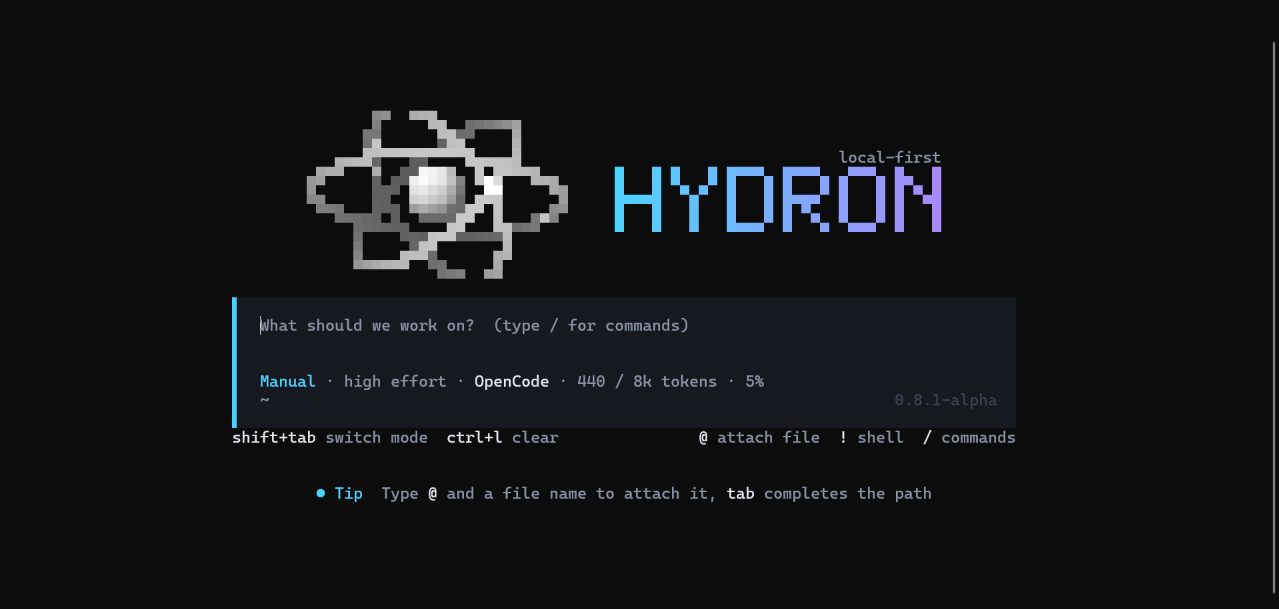
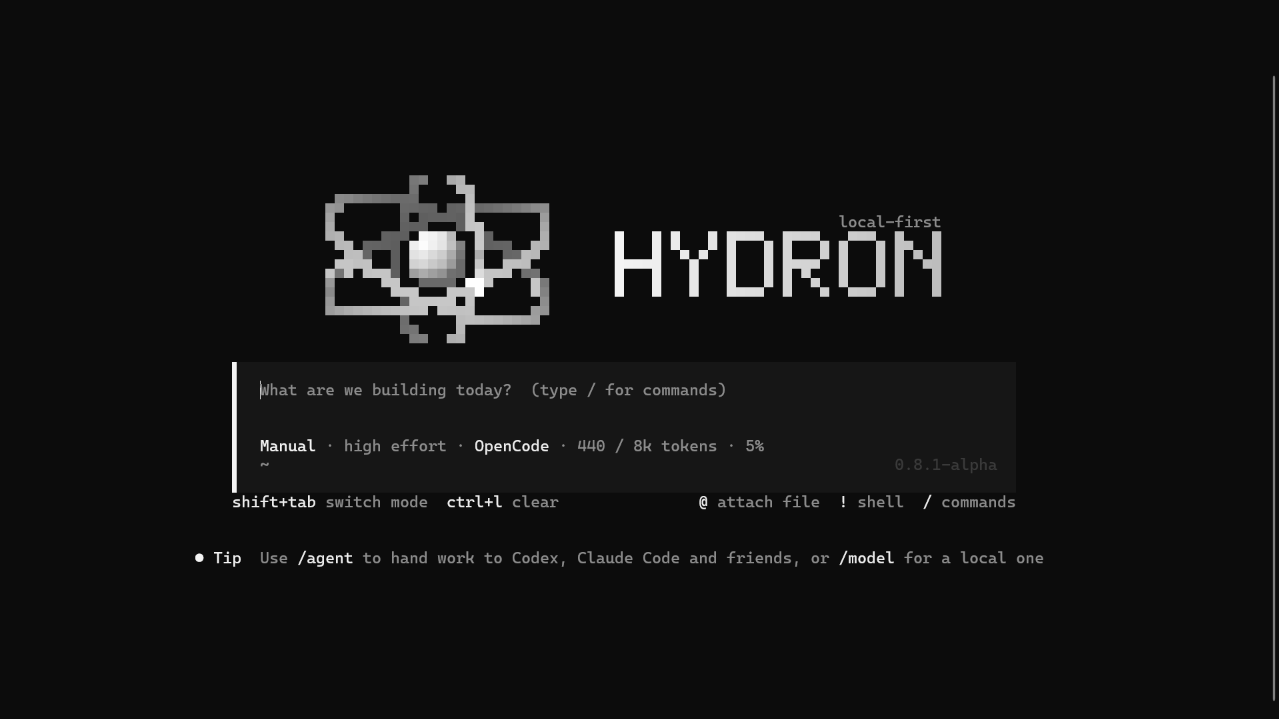
Use full-screen grey-theme screenshots for the app and CLI
- Replace the chat, Launch, Model Shop, Skills, IDE and CLI screenshots
  with full-window captures in the official grey Hydron theme; they are
  16:9 so they fill their frames without letterboxing
- Remove the PowerShell prompt line from the top of the CLI screenshot
- Mention /agent and /model in the CLI feature list, matching the new tip

Claude-Session: https://claude.ai/code/session_018qBfZMS91rYwB9GFuJ8y4J

diff --git a/features.html b/features.html
@@ -50,14 +50,14 @@
 
 <section class="showcase">
   <div class="container fade">
-    <div class="frame"><img id="product-shot" src="assets/hydron-chat.png?v=a25be29d" alt="Hydron chat interface" width="1279" height="673"></div>
+    <div class="frame"><img id="product-shot" src="assets/hydron-chat.png?v=d249b812" alt="Hydron chat interface" width="1279" height="719"></div>
     <div style="text-align:center">
       <div class="tabs" role="tablist" aria-label="Hydron product views">
-        <button class="tab active" role="tab" aria-selected="true" data-shot="assets/hydron-chat.png?v=a25be29d" data-alt="Hydron chat interface" data-caption="Chat with a local model or a connected coding agent.">Chat</button>
-        <button class="tab" role="tab" aria-selected="false" data-shot="assets/hydron-launch.png?v=1dde3c11" data-alt="Hydron agents and local models screen" data-caption="Launch the agents already on your PC and manage installed models.">Agents &amp; models</button>
-        <button class="tab" role="tab" aria-selected="false" data-shot="assets/hydron-models.png?v=afc7d46d" data-alt="Hydron Model Shop" data-caption="Install any GGUF model from Hugging Face, the Ollama library or a direct link.">Model Shop</button>
-        <button class="tab" role="tab" aria-selected="false" data-shot="assets/hydron-skills.png?v=3160bb89" data-alt="Hydron Skills library" data-caption="Install skills that change how the model writes, thinks and codes.">Skills</button>
-        <button class="tab" role="tab" aria-selected="false" data-shot="assets/hydron-ide.png?v=617fe2a2" data-alt="Hydron integrated development environment" data-caption="Edit your project with Ion in the Ask Hydron side chat.">IDE</button>
+        <button class="tab active" role="tab" aria-selected="true" data-shot="assets/hydron-chat.png?v=d249b812" data-alt="Hydron chat interface" data-caption="Chat with a local model or a connected coding agent.">Chat</button>
+        <button class="tab" role="tab" aria-selected="false" data-shot="assets/hydron-launch.png?v=7ea89d19" data-alt="Hydron agents and local models screen" data-caption="Launch the agents already on your PC and manage installed models.">Agents &amp; models</button>
+        <button class="tab" role="tab" aria-selected="false" data-shot="assets/hydron-models.png?v=3a570a95" data-alt="Hydron Model Shop" data-caption="Install any GGUF model from Hugging Face, the Ollama library or a direct link.">Model Shop</button>
+        <button class="tab" role="tab" aria-selected="false" data-shot="assets/hydron-skills.png?v=f6dad4f7" data-alt="Hydron Skills library" data-caption="Install skills that change how the model writes, thinks and codes.">Skills</button>
+        <button class="tab" role="tab" aria-selected="false" data-shot="assets/hydron-ide.png?v=c09e0cdf" data-alt="Hydron integrated development environment" data-caption="Edit your project with Ion in the Ask Hydron side chat.">IDE</button>
       </div>
       <p class="tab-caption" id="product-caption">Chat with a local model or a connected coding agent.</p>
     </div>
@@ -87,7 +87,7 @@
         <p>Search Hugging Face straight from Hydron, or open an Ollama name, an <code>hf:owner/repo</code> reference or a direct <code>.gguf</code> link. Not sure where to start? Hydron's verified picks cover everything from tiny to capable.</p>
         <ul class="checklist"><li>Install any GGUF model from Hugging Face, the Ollama library or a link</li><li>Downloads are checked against the SHA-256 the source publishes</li><li>Browse the most-downloaded GGUF models on Hugging Face</li><li>Verified picks such as Qwen, Llama, Gemma, Phi, Mistral and DeepSeek</li></ul>
       </div>
-      <div class="frame"><img src="assets/hydron-models.png?v=afc7d46d" alt="Hydron Model Shop with Hugging Face search and verified model picks" width="1279" height="670" loading="lazy"></div>
+      <div class="frame"><img src="assets/hydron-models.png?v=3a570a95" alt="Hydron Model Shop with Hugging Face search and verified model picks" width="1279" height="719" loading="lazy"></div>
     </div>
     <div class="feature-row flip fade" id="skills">
       <div class="feature-copy">
@@ -96,7 +96,7 @@
         <p>Skills change how the model writes, thinks and codes. There are 62 to choose from today, with more to come — from Concise and Plain English to Copy editor, Tutor and Reviewer.</p>
         <ul class="checklist"><li>Install only the skills you want</li><li>Switch each installed skill on or off</li><li>Applies to the main chat, the side chat and the CLI</li><li>Search and filter by category</li></ul>
       </div>
-      <div class="frame"><img src="assets/hydron-skills.png?v=3160bb89" alt="Hydron Skills library with installable writing and tone skills" width="1279" height="670" loading="lazy"></div>
+      <div class="frame"><img src="assets/hydron-skills.png?v=f6dad4f7" alt="Hydron Skills library with installable writing and tone skills" width="1279" height="719" loading="lazy"></div>
     </div>
     <div class="feature-row fade">
       <div class="feature-copy">
@@ -105,7 +105,7 @@
         <p>Open the folder you choose and work beside the AI tools using it. Hydron calls the language toolchains already installed on your PC.</p>
         <ul class="checklist"><li>Switch between the Hydron editor and VS Code</li><li>Ctrl+I opens Ask Hydron: Ion explains code, finds bugs and adds tests</li><li>You stay in control of every edit</li><li>Command palette, file explorer, and workspace search</li><li>Built-in terminal, problems, and output panels</li><li>Run with F5, plus Build and auto-save</li></ul>
       </div>
-      <div class="frame"><img src="assets/hydron-ide.png?v=617fe2a2" alt="Hydron integrated development environment" width="1279" height="669" loading="lazy"></div>
+      <div class="frame"><img src="assets/hydron-ide.png?v=c09e0cdf" alt="Hydron integrated development environment" width="1279" height="719" loading="lazy"></div>
     </div>
     <div class="feature-row flip fade">
       <div class="feature-copy">
@@ -114,16 +114,16 @@
         <p>Hydron detects supported coding agents installed on your PC, including Codex, Claude Code, Hermes, OpenClaw, OpenCode, and Copilot CLI.</p>
         <ul class="checklist"><li>Use your own subscriptions or API access</li><li>Each provider keeps its own terms and privacy rules</li><li>Workspace and write access stay explicit</li></ul>
       </div>
-      <div class="frame"><img src="assets/hydron-launch.png?v=1dde3c11" alt="Hydron agents and local models screen" width="1279" height="673" loading="lazy"></div>
+      <div class="frame"><img src="assets/hydron-launch.png?v=7ea89d19" alt="Hydron agents and local models screen" width="1279" height="719" loading="lazy"></div>
     </div>
     <div class="feature-row fade">
       <div class="feature-copy">
         <span class="eyebrow">Terminal agent</span>
         <h3>A coding agent in your terminal.</h3>
         <p>Type <code>hydron</code> in any shell and tell it what to work on. It runs on a local model or an agent such as OpenCode, and asks for a change the way you'd ask a teammate.</p>
-        <ul class="checklist"><li>Shift+Tab switches mode; Ctrl+L clears</li><li><code>@</code> attaches a file (Tab completes the path), <code>!</code> runs a shell command</li><li>Type <code>/</code> to see every command</li></ul>
+        <ul class="checklist"><li>Shift+Tab switches mode; Ctrl+L clears</li><li><code>@</code> attaches a file (Tab completes the path), <code>!</code> runs a shell command</li><li>Start a line with <code>#</code> to save a note to the project's memory</li><li><code>/agent</code> hands work to Codex, Claude Code and friends; <code>/model</code> picks a local one</li><li>Type <code>/</code> to see every command</li></ul>
       </div>
-      <div class="frame natural"><img src="assets/hydron-cli.png?v=5e876760" alt="Hydron CLI start screen with the pixel Ion logo and a prompt asking what to work on" width="1279" height="609" loading="lazy"></div>
+      <div class="frame natural"><img src="assets/hydron-cli.png?v=bfb326c3" alt="Hydron CLI start screen with the pixel Ion logo and a prompt asking what to work on" width="1279" height="719" loading="lazy"></div>
     </div>
   </div>
 </section>

diff --git a/index.html b/index.html
@@ -51,7 +51,7 @@
 
 <section class="showcase hero-shot">
   <div class="container">
-    <div class="frame"><img src="assets/hydron-chat.png?v=a25be29d" alt="Hydron chat with Projects, Launch, Model Shop, Skills, IDE, Telescope, Compare and Virtual Machines in the sidebar" width="1279" height="673"></div>
+    <div class="frame"><img src="assets/hydron-chat.png?v=d249b812" alt="Hydron chat with Projects, Launch, Model Shop, Skills, IDE, Telescope, Compare and Virtual Machines in the sidebar" width="1279" height="719"></div>
   </div>
 </section>
 
@@ -71,42 +71,42 @@
         <span class="step-num">01 / 06</span>
         <h3>Hydron app</h3>
         <p>Your home base for local AI. Chat with a model running on your PC or with a connected coding agent, and keep related conversations together in Projects.</p>
-        <div class="frame"><img src="assets/hydron-chat.png?v=a25be29d" alt="" width="1279" height="673" loading="lazy"></div>
+        <div class="frame"><img src="assets/hydron-chat.png?v=d249b812" alt="" width="1279" height="719" loading="lazy"></div>
       </article>
       <article class="explorer-item">
         <span class="step-num">02 / 06</span>
         <h3>Launch</h3>
         <p>See every supported agent on your PC — Codex, Claude Code, OpenCode, Copilot CLI and more — alongside Hydron's own local model engine, and chat with or remove the models you've installed.</p>
-        <div class="frame"><img src="assets/hydron-launch.png?v=1dde3c11" alt="" width="1279" height="673" loading="lazy"></div>
+        <div class="frame"><img src="assets/hydron-launch.png?v=7ea89d19" alt="" width="1279" height="719" loading="lazy"></div>
       </article>
       <article class="explorer-item">
         <span class="step-num">03 / 06</span>
         <h3>Model Shop</h3>
         <p>Install any GGUF model from Hugging Face, the Ollama library or a direct link. Search, pick from Hydron's verified picks, and every download is checked against the SHA-256 its source publishes.</p>
-        <div class="frame"><img src="assets/hydron-models.png?v=afc7d46d" alt="" width="1279" height="670" loading="lazy"></div>
+        <div class="frame"><img src="assets/hydron-models.png?v=3a570a95" alt="" width="1279" height="719" loading="lazy"></div>
       </article>
       <article class="explorer-item">
         <span class="step-num">04 / 06</span>
         <h3>Skills</h3>
         <p>62 installable skills — with more on the way — that change how the model writes, thinks and codes. Switch each one on or off; they apply to the main chat, the side chat and the CLI.</p>
-        <div class="frame"><img src="assets/hydron-skills.png?v=3160bb89" alt="" width="1279" height="670" loading="lazy"></div>
+        <div class="frame"><img src="assets/hydron-skills.png?v=f6dad4f7" alt="" width="1279" height="719" loading="lazy"></div>
       </article>
       <article class="explorer-item">
         <span class="step-num">05 / 06</span>
         <h3>Hydron CLI</h3>
         <p>Type <code>hydron</code> in any shell and tell it what to work on. Switch modes with Shift+Tab, attach files with <code>@</code>, run shell commands with <code>!</code>, and see every command with <code>/</code>.</p>
-        <div class="frame natural"><img src="assets/hydron-cli.png?v=5e876760" alt="" width="1279" height="609" loading="lazy"></div>
+        <div class="frame natural"><img src="assets/hydron-cli.png?v=bfb326c3" alt="" width="1279" height="719" loading="lazy"></div>
       </article>
       <article class="explorer-item">
         <span class="step-num">06 / 06</span>
         <h3>Hydron IDE</h3>
         <p>Open a folder and edit beside your agents. Press Ctrl+I for Ask Hydron, a side chat where Ion explains your project, finds bugs or adds tests — you approve every edit. Switch to VS Code for your extensions, and run with F5.</p>
-        <div class="frame"><img src="assets/hydron-ide.png?v=617fe2a2" alt="" width="1279" height="669" loading="lazy"></div>
+        <div class="frame"><img src="assets/hydron-ide.png?v=c09e0cdf" alt="" width="1279" height="719" loading="lazy"></div>
       </article>
     </div>
     <div class="explorer-stage" aria-hidden="true">
       <div class="frame">
-        <img src="assets/hydron-chat.png?v=a25be29d" alt="" width="1279" height="673"><img src="assets/hydron-launch.png?v=1dde3c11" alt="" width="1279" height="673" loading="lazy"><img src="assets/hydron-models.png?v=afc7d46d" alt="" width="1279" height="670" loading="lazy"><img src="assets/hydron-skills.png?v=3160bb89" alt="" width="1279" height="670" loading="lazy"><img src="assets/hydron-cli.png?v=5e876760" alt="" width="1279" height="609" loading="lazy"><img src="assets/hydron-ide.png?v=617fe2a2" alt="" width="1279" height="669" loading="lazy">
+        <img src="assets/hydron-chat.png?v=d249b812" alt="" width="1279" height="719"><img src="assets/hydron-launch.png?v=7ea89d19" alt="" width="1279" height="719" loading="lazy"><img src="assets/hydron-models.png?v=3a570a95" alt="" width="1279" height="719" loading="lazy"><img src="assets/hydron-skills.png?v=f6dad4f7" alt="" width="1279" height="719" loading="lazy"><img src="assets/hydron-cli.png?v=bfb326c3" alt="" width="1279" height="719" loading="lazy"><img src="assets/hydron-ide.png?v=c09e0cdf" alt="" width="1279" height="719" loading="lazy">
       </div>
     </div>
   </div>
@@ -120,10 +120,10 @@
       <p>Whether you care most about privacy, already live in a coding agent, or just want to learn, Hydron keeps the models and the code on your machine.</p>
     </div>
     <div class="cases grid">
-      <a class="case fade" href="privacy.html"><div class="case-media"><img src="assets/hydron-chat.png?v=a25be29d" alt="" loading="lazy"></div><h3>Privacy-first developer</h3><p>Local model conversations never leave your PC. No account, no telemetry, no Hydron cloud.</p><span class="arrow-link">How Hydron handles data</span></a>
-      <a class="case fade" href="features.html#features"><div class="case-media"><img src="assets/hydron-launch.png?v=1dde3c11" alt="" loading="lazy"></div><h3>Agent power user</h3><p>Launch Codex, Claude Code, Copilot CLI and others from one place, with your own subscriptions.</p><span class="arrow-link">See supported agents</span></a>
-      <a class="case fade" href="features.html"><div class="case-media"><img src="assets/hydron-cli.png?v=5e876760" alt="" loading="lazy"></div><h3>Terminal-first developer</h3><p>Stay in the shell with the Hydron CLI: an agent that starts read-only, with undo built in.</p><span class="arrow-link">Meet the CLI</span></a>
-      <a class="case fade" href="install.html"><div class="case-media"><img src="assets/hydron-models.png?v=afc7d46d" alt="" loading="lazy"></div><h3>Learner &amp; hobbyist</h3><p>Start with a small free model on the hardware you have, and grow into bigger ones.</p><span class="arrow-link">Get started</span></a>
+      <a class="case fade" href="privacy.html"><div class="case-media"><img src="assets/hydron-chat.png?v=d249b812" alt="" loading="lazy"></div><h3>Privacy-first developer</h3><p>Local model conversations never leave your PC. No account, no telemetry, no Hydron cloud.</p><span class="arrow-link">How Hydron handles data</span></a>
+      <a class="case fade" href="features.html#features"><div class="case-media"><img src="assets/hydron-launch.png?v=7ea89d19" alt="" loading="lazy"></div><h3>Agent power user</h3><p>Launch Codex, Claude Code, Copilot CLI and others from one place, with your own subscriptions.</p><span class="arrow-link">See supported agents</span></a>
+      <a class="case fade" href="features.html"><div class="case-media"><img src="assets/hydron-cli.png?v=bfb326c3" alt="" loading="lazy"></div><h3>Terminal-first developer</h3><p>Stay in the shell with the Hydron CLI: an agent that starts read-only, with undo built in.</p><span class="arrow-link">Meet the CLI</span></a>
+      <a class="case fade" href="install.html"><div class="case-media"><img src="assets/hydron-models.png?v=3a570a95" alt="" loading="lazy"></div><h3>Learner &amp; hobbyist</h3><p>Start with a small free model on the hardware you have, and grow into bigger ones.</p><span class="arrow-link">Get started</span></a>
     </div>
   </div>
 </section>
